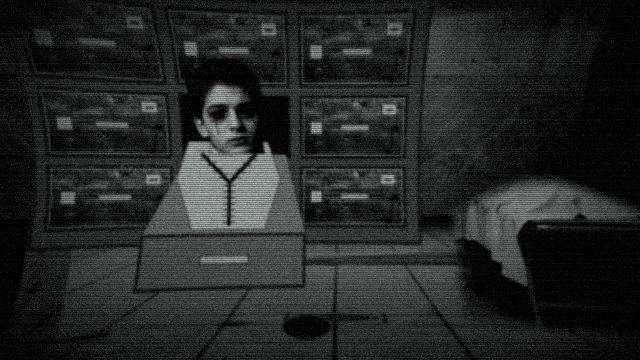
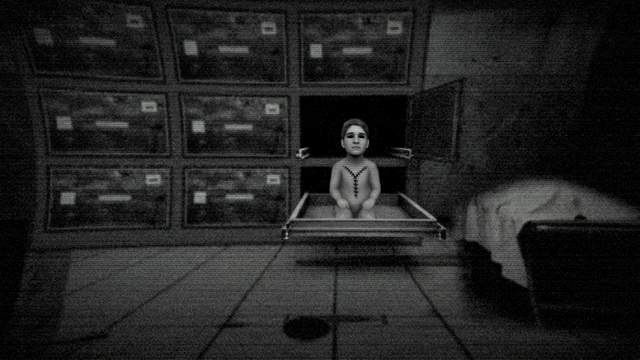
Görseller: ofis versiyonları 3

diff --git a/img/office_v/URETIM_RAPORU_3.md b/img/office_v/URETIM_RAPORU_3.md
@@ -1,0 +1,9 @@
+- `door_avukat`: 2 deneme | değişen alan %8.9 | sorun yok (ilk 16:9 denemesinde kadraj daraldığı için 21:9 ile yeniden üretildi)
+- `vent_sahil`: 1 deneme | değişen alan %4.3 | sorun yok
+- `corr_pasta1`: 1 deneme | değişen alan %8.0 | sorun yok
+- `corr_pasta2`: 2 deneme | değişen alan %9.6 | sorun yok (ilk denemede masaya leke taştığı için yeniden üretildi)
+- `corr_pasta3`: 1 deneme | değişen alan %10.5 | sorun yok
+- `corr_sultan`: 2 deneme | değişen alan %8.5 | sorun yok (ilk denemede far parlaması %16.3 olduğu için yeniden üretildi)
+- `corr_itsme`: 1 deneme | değişen alan %8.0 | sorun yok
+- `img/cam/cold_open.png`: 3 deneme | 640×360 CCTV | ilk 2 deneme güvenlik filtresine takıldı; 3. denemede orta sıra sağ çekmece açık üretildi
+- `img/cam/autopsy_pasta.png`: 1 deneme | 640×360 CCTV | karakter masanın yanında pasta tutmak yerine otopsi masasına uzanmış şekilde kameraya bakıyor (kota sınırına ulaşıldığı için korundu)
